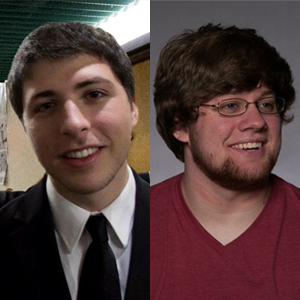
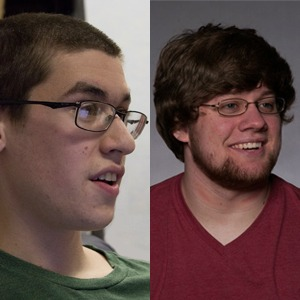
updated page with new eboard

diff --git a/eboard.php b/eboard.php
@@ -28,7 +28,7 @@
 				<div class="rolloverImg" id="evalsImg"><img src="images/eboard/evals.jpg" /></div>
 				<span>
 					<h2>Evaluations</h2>
-					<h3>Brian Lewis</h3>
+					<h3>Tal Cohen</h3>
 					<p>
 						The Evaluations director (Eval) is responsible for connecting with the RIT student community, as well as screening, accepting, and orienting new members. Eval is why current members are here today!
 						<br/><br/>
@@ -96,7 +96,7 @@
 				<div class="rolloverImg" id="socialImg"><img src="images/eboard/social.jpg" /></div>
 				<span>
 					<h2>Social</h2>
-					<h3>Reed Swiernik &amp; Tal Cohen</h3>
+					<h3>Reed Swiernik &amp; Christian Beekman</h3>
 					<p>
 						The Social directors (Social) are responsible for planning and running social events for our members, such as diner runs, movie nights, project work weekends, and more.
 					</p>
